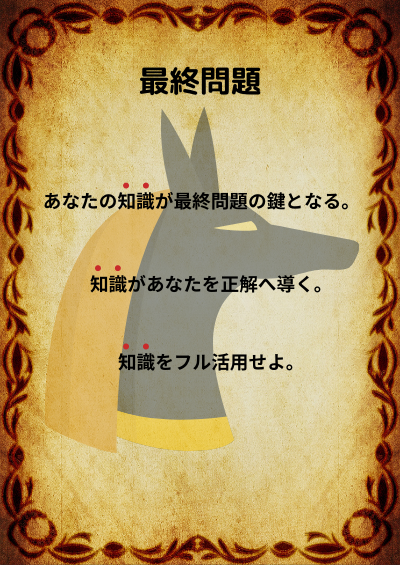
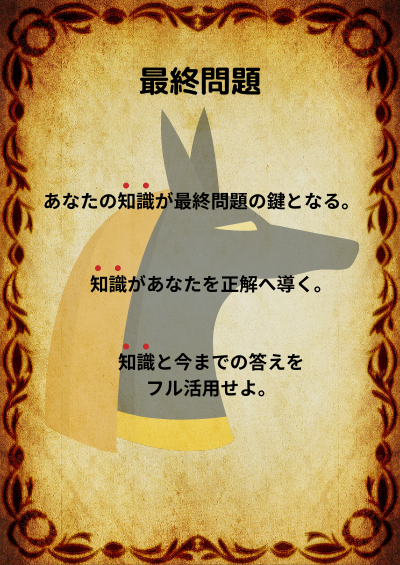
ローカルに保存する処理を追加した。

Changed region(s): [[0.36, 0.6018, 0.75, 0.7221]]

diff --git a/lib/view/mystery_list.dart b/lib/view/mystery_list.dart
@@ -3,9 +3,15 @@ import 'package:flutter_riverpod/flutter_riverpod.dart';
 import 'package:flutter_screenutil/flutter_screenutil.dart';
 import '../importer.dart';
 
-class MysteryList extends ConsumerWidget {
+class MysteryList extends ConsumerStatefulWidget {
   const MysteryList({Key? key, required this.kind}) : super(key: key);
   final String kind;
+
+  @override
+  ConsumerState<MysteryList> createState() => _MysteryListState();
+}
+
+class _MysteryListState extends ConsumerState<MysteryList> {
   final prefix = 'assets/images/mystery';
 
   List<String> _createImagePaths(MysteryKind kind) {
@@ -28,23 +34,28 @@ class MysteryList extends ConsumerWidget {
           '${prefix}8.png',
           '${prefix}9.png',
         ];
+      case MysteryKind.last:
+        return [
+          '${prefix}10.png',
+        ];
       default:
         return [''];
     }
   }
 
-  List<MysteryItem> _createMysteryItems(
-      MysteryKind mysteryKind, WidgetRef ref) {
-    final items = ref.watch(appViewModelNotifierProvider).items;
+  List<MysteryItem> _createMysteryItems(MysteryKind mysteryKind) {
+    final items = ref
+        .watch(appViewModelNotifierProvider)
+        .items;
     return items
         .where((item) => MysteryKindExtension.of(item.kind) == mysteryKind)
         .toList();
   }
 
   @override
-  Widget build(BuildContext context, WidgetRef ref) {
-    final mysteryKind = MysteryKindExtension.of(kind)!;
-    final items = _createMysteryItems(mysteryKind, ref);
+  Widget build(BuildContext context) {
+    final mysteryKind = MysteryKindExtension.of(widget.kind)!;
+    final items = _createMysteryItems(mysteryKind);
 
     return Scaffold(
       body: SingleChildScrollView(
@@ -52,25 +63,36 @@ class MysteryList extends ConsumerWidget {
           padding: EdgeInsets.only(top: 64.h, bottom: 48.h),
           child: Column(
             children: <Widget>[
-              Text(
-                Strings.resolveMysteryMsg,
-                style: TextStyle(
-                  fontSize: 22.sp,
-                  color: AppColors.white,
+              if (mysteryKind != MysteryKind.last)
+                Text(
+                  Strings.resolveMysteryMsg,
+                  style: TextStyle(
+                    fontSize: 22.sp,
+                    color: AppColors.white,
+                  ),
                 ),
-              ),
+              if (mysteryKind == MysteryKind.last)
+                Text(
+                  Strings.lastMysteryMsg,
+                  style: TextStyle(
+                    fontSize: 32.sp,
+                    color: AppColors.white,
+                  ),
+                ),
               ImageButton(
                 item: items[0],
                 imagePath: _createImagePaths(mysteryKind)[0],
               ),
-              ImageButton(
-                item: items[1],
-                imagePath: _createImagePaths(mysteryKind)[1],
-              ),
-              ImageButton(
-                item: items[2],
-                imagePath: _createImagePaths(mysteryKind)[2],
-              ),
+              if (mysteryKind != MysteryKind.last)
+                ImageButton(
+                  item: items[1],
+                  imagePath: _createImagePaths(mysteryKind)[1],
+                ),
+              if (mysteryKind != MysteryKind.last)
+                ImageButton(
+                  item: items[2],
+                  imagePath: _createImagePaths(mysteryKind)[2],
+                ),
               Container(
                 margin: EdgeInsets.only(
                   top: 16.h,

diff --git a/lib/repository/app_repository_impl.dart b/lib/repository/app_repository_impl.dart
@@ -1,16 +1,26 @@
 import 'dart:convert';
 import 'package:cloud_firestore/cloud_firestore.dart';
 import 'package:flutter/services.dart';
+import 'package:shared_preferences/shared_preferences.dart';
 import '../importer.dart';
 
 class AppRepositoryImpl implements AppRepository {
+  final _key = 'DATA_KEY';
+  final _dataKey = 'data';
+
   @override
   Future<List<MysteryItem>> getMysteryItems() async {
-    String jsonStr = await rootBundle.loadString("assets/json/data.json");
-    final data = json.decode(jsonStr)["data"];
-    return List<MysteryItem>.from(
-      data.map((value) => MysteryItem.fromJson(value)).toList(),
-    );
+    final prefs = await SharedPreferences.getInstance();
+    final cache = prefs.getString(_key);
+    dynamic data;
+    if (cache == null) {
+      String jsonStr = await rootBundle.loadString('assets/json/data.json');
+      data = json.decode(jsonStr)[_dataKey];
+    } else {
+      data = json.decode(cache)[_dataKey];
+    }
+    print('data: $data');
+    return _createMysteryItems(data);
   }
 
   @override
@@ -22,5 +32,18 @@ class AppRepositoryImpl implements AppRepository {
         .then(
           (ref) => ref.get('num'),
         );
+  }
+
+  @override
+  Future<void> saveItem(List<MysteryItem> items) async {
+      final SharedPreferences prefs = await SharedPreferences.getInstance();
+      final jsonStr = json.encode({_dataKey: items});
+      prefs.setString(_key, jsonStr);
+  }
+
+  List<MysteryItem> _createMysteryItems(dynamic data) {
+    return List<MysteryItem>.from(
+      data.map((value) => MysteryItem.fromJson(value)).toList(),
+    );
   }
 }

diff --git a/lib/view/key_list.dart b/lib/view/key_list.dart
@@ -1,18 +1,19 @@
 import 'package:carousel_slider/carousel_slider.dart';
 import 'package:flutter/material.dart';
+import 'package:flutter_riverpod/flutter_riverpod.dart';
 import 'package:flutter_screenutil/flutter_screenutil.dart';
 import '../importer.dart';
 
-class KeyList extends StatefulWidget {
+class KeyList extends ConsumerStatefulWidget {
   const KeyList({Key? key}) : super(key: key);
 
   @override
-  State<KeyList> createState() => _KeyListState();
+  ConsumerState<KeyList> createState() => _KeyListState();
 }
 
-class _KeyListState extends State<KeyList> {
+class _KeyListState extends ConsumerState<KeyList> {
   int _currentPosition = 0;
-  final _initialKeyList = [
+  var _initialKeyList = [
     {
       'title': 'File.1',
       'kind': 'bird',
@@ -30,8 +31,26 @@ class _KeyListState extends State<KeyList> {
     },
   ];
 
+  void _createMysteryItems() {
+    if (_initialKeyList.length == 3) {
+      final items = ref.watch(appViewModelNotifierProvider).items;
+      final itemsExceptLastItem = items.sublist(0, items.length - 1);
+      final isAllResolved = itemsExceptLastItem.every((item) => item.isResolved == true);
+      if (isAllResolved) {
+        setState(() {
+          _initialKeyList = _initialKeyList + [{
+            'title': 'File.4',
+            'kind': 'final',
+            'imagePath': 'assets/images/ic_key_human.png',
+          }];
+        });
+      }
+    }
+  }
+
   @override
   Widget build(BuildContext context) {
+    _createMysteryItems();
     final size = MediaQuery.of(context).size;
     return Scaffold(
       body: SafeArea(

diff --git a/lib/component/answer.dart b/lib/component/answer.dart
@@ -1,9 +1,10 @@
 import 'package:flutter/material.dart';
 import 'package:flutter_dotenv/flutter_dotenv.dart';
+import 'package:flutter_riverpod/flutter_riverpod.dart';
 import 'package:flutter_screenutil/flutter_screenutil.dart';
 import '../importer.dart';
 
-class Answer extends StatefulWidget {
+class Answer extends ConsumerStatefulWidget {
   const Answer({
     Key? key,
     required this.id,
@@ -11,10 +12,10 @@ class Answer extends StatefulWidget {
   final int id;
 
   @override
-  State<Answer> createState() => _AnswerState();
+  ConsumerState<Answer> createState() => _AnswerState();
 }
 
-class _AnswerState extends State<Answer> {
+class _AnswerState extends ConsumerState<Answer> {
   late String answer;
   String _input = "";
 
@@ -68,6 +69,7 @@ class _AnswerState extends State<Answer> {
     var isCorrect = false;
     if (_input.compareTo(answer) == 0) {
       isCorrect = true;
+      _save();
     }
     Navigator.of(context).pushNamed(
       Strings.judgementPath,
@@ -77,6 +79,10 @@ class _AnswerState extends State<Answer> {
       _input = "";
       _textEditingController.clear();
     });
+  }
+
+  Future<void> _save() async {
+    await ref.watch(appViewModelNotifierProvider).saveItem(widget.id);
   }
 
   @override

diff --git a/lib/component/image_button.dart b/lib/component/image_button.dart
@@ -16,8 +16,6 @@ class ImageButton extends StatefulWidget {
 }
 
 class _ImageButtonState extends State<ImageButton> {
-  final bool _isResolved = false;
-
   void _toMystery(BuildContext context) {
     Navigator.of(context).pushNamed(
       Strings.mysteryPath,
@@ -28,6 +26,7 @@ class _ImageButtonState extends State<ImageButton> {
   @override
   Widget build(BuildContext context) {
     final size = MediaQuery.of(context).size;
+    final _isResolved = widget.item.isResolved;
     return Padding(
       padding: EdgeInsets.symmetric(horizontal: 48.w, vertical: 16.h),
       child: Stack(
@@ -37,7 +36,7 @@ class _ImageButtonState extends State<ImageButton> {
             margin: EdgeInsets.only(top: 184.h),
             alignment: Alignment.center,
             child: SelectButton(
-              textColor: AppColors.shadow,
+              textColor: _isResolved ? AppColors.green : AppColors.shadow,
               backgroundColor: AppColors.white,
               action: _toMystery,
               name: _isResolved ? Strings.clearButton : Strings.releaseButton,

diff --git a/lib/view_model/app_view_model.dart b/lib/view_model/app_view_model.dart
@@ -34,7 +34,21 @@ class AppViewModel extends ChangeNotifier {
       _clearedCount = value;
     }).catchError((dynamic error) {
       _clearedCount = 0;
-
     }).whenComplete(() => notifyListeners());
+  }
+
+  Future<void> saveItem(int id) async {
+    final targetItem = _items.firstWhere((item) => item.id == id);
+    final newItem = MysteryItem(
+      id: id,
+      kind: targetItem.kind,
+      isResolved: true,
+      imagePath: targetItem.imagePath,
+    );
+    final newsItems =
+        _items.map((value) => value.id == id ? newItem : value).toList();
+    _appRepository.saveItem(newsItems);
+    _items = newsItems;
+    notifyListeners();
   }
 }

diff --git a/lib/importer.dart b/lib/importer.dart
@@ -7,9 +7,10 @@ export 'component/key_item.dart';
 export 'component/select_button.dart';
 export 'constant/dimens.dart';
 export 'constant/strings.dart';
+export 'model/app_repository_provider.dart';
+export 'model/cache_provider.dart';
 export 'model/mystery_kind.dart';
 export 'model/mystery_item.dart';
-export 'model/app_repository_provider.dart';
 export 'repository/app_repository.dart';
 export 'repository/app_repository_impl.dart';
 export 'router/router.dart';

diff --git a/lib/model/mystery_kind.dart b/lib/model/mystery_kind.dart
@@ -1,4 +1,4 @@
-enum MysteryKind { bird, animal, human }
+enum MysteryKind { bird, animal, human, last }
 
 extension MysteryKindExtension on MysteryKind {
   static MysteryKind? of(String kind) {
@@ -9,6 +9,8 @@ extension MysteryKindExtension on MysteryKind {
         return MysteryKind.animal;
       case 'human':
         return MysteryKind.human;
+      case 'final':
+        return MysteryKind.last;
       default:
         return null;
     }

diff --git a/lib/constant/strings.dart b/lib/constant/strings.dart
@@ -20,6 +20,7 @@ class Strings {
   // message.
   static const clearedNumberLabel = 'クリア人数';
   static const resolveMysteryMsg = 'それぞれの謎を解き明かそう。';
+  static const lastMysteryMsg = '最終問題';
   static const emptyAlertMsg = '解答を入力してください。';
   static const inputLabel = '解答欄';
   static const successfulDecodingMsg = '- 解読成功 -';

diff --git a/lib/model/cache_provider.dart b/lib/model/cache_provider.dart
@@ -1,0 +1,8 @@
+import 'package:flutter_riverpod/flutter_riverpod.dart';
+import 'package:shared_preferences/shared_preferences.dart';
+
+final sharedPreferencesProvider = FutureProvider<SharedPreferences>(
+  (ref) async {
+    return await SharedPreferences.getInstance();
+  }
+);

diff --git a/lib/repository/app_repository.dart b/lib/repository/app_repository.dart
@@ -3,4 +3,5 @@ import '../importer.dart';
 abstract class AppRepository {
   Future<List<MysteryItem>> getMysteryItems();
   Future<int> getMClearedCount();
+  Future<void> saveItem(List<MysteryItem> items);
 }

diff --git a/lib/view/home.dart b/lib/view/home.dart
@@ -25,7 +25,7 @@ class _HomeState extends ConsumerState<Home> {
     });
 
     Future.delayed(Duration.zero, () {
-      _loadClearedCount(ref);
+      // _loadClearedCount(ref);
     });
   }
 
